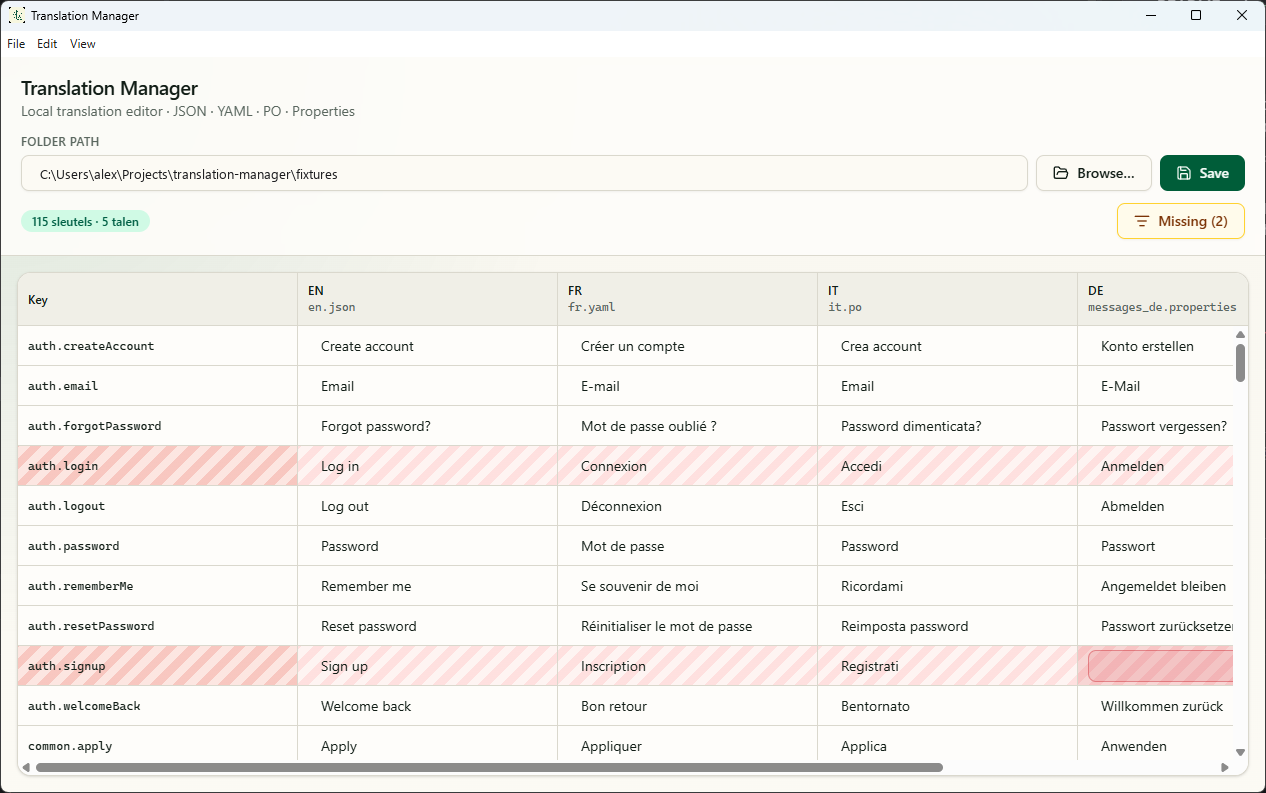
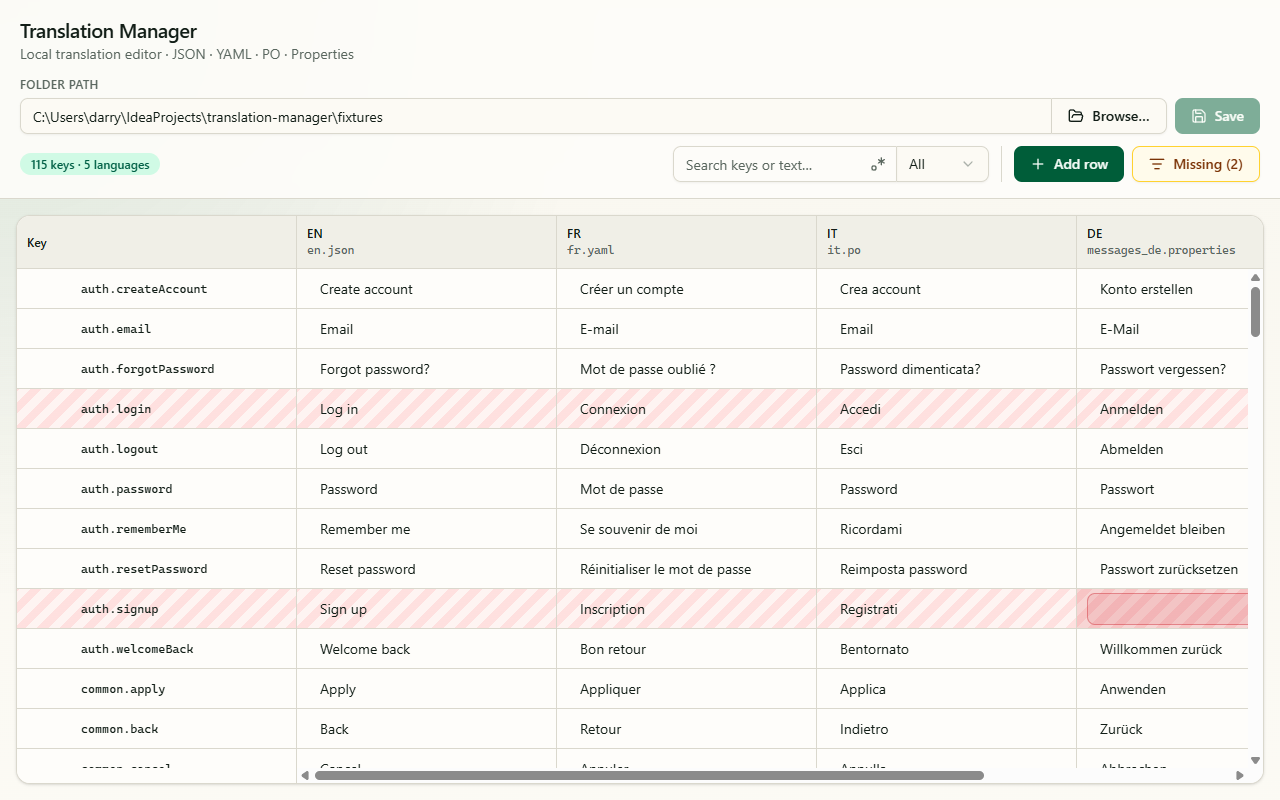
Add automated screenshot capture for dark and light modes, integrate into release workflow, and update related documentation

diff --git a/electron/screenshot.ts b/electron/screenshot.ts
@@ -1,0 +1,97 @@
+import { app, type BrowserWindow } from 'electron'
+import fs from 'node:fs/promises'
+import path from 'node:path'
+import type { UiTheme } from '../shared/theme'
+
+const DIRECTORY_KEY = 'translation-manager:directory-path'
+const THEME_KEY = 'translation-manager:ui-theme'
+const LOCALE_KEY = 'translation-manager:ui-locale'
+
+export function isScreenshotMode(): boolean {
+  return process.env.TM_SCREENSHOT === '1'
+}
+
+function sleep(ms: number): Promise<void> {
+  return new Promise((resolve) => {
+    setTimeout(resolve, ms)
+  })
+}
+
+async function waitForProjectRows(win: BrowserWindow, minRows = 5): Promise<void> {
+  const deadline = Date.now() + 30_000
+  while (Date.now() < deadline) {
+    const count = await win.webContents.executeJavaScript(
+      `document.querySelectorAll('[data-row-key]').length`,
+    )
+    if (typeof count === 'number' && count >= minRows) {
+      return
+    }
+    await sleep(150)
+  }
+  throw new Error(`Timed out waiting for at least ${minRows} translation rows`)
+}
+
+async function prepareSession(
+  win: BrowserWindow,
+  fixturesPath: string,
+  theme: 'dark' | 'light',
+): Promise<void> {
+  const fixtures = JSON.stringify(fixturesPath)
+  const themeJson = JSON.stringify(theme)
+  await win.webContents.executeJavaScript(`
+    localStorage.setItem(${JSON.stringify(DIRECTORY_KEY)}, ${fixtures});
+    localStorage.setItem(${JSON.stringify(THEME_KEY)}, ${themeJson});
+    localStorage.setItem(${JSON.stringify(LOCALE_KEY)}, 'en');
+  `)
+  await win.reload()
+  await win.webContents.executeJavaScript(
+    `new Promise((resolve) => {
+      if (document.readyState === 'complete') resolve(undefined)
+      else window.addEventListener('load', () => resolve(undefined), { once: true })
+    })`,
+  )
+  await waitForProjectRows(win)
+  // Let layout/virtualization settle before capture.
+  await sleep(600)
+}
+
+async function captureToFile(win: BrowserWindow, filePath: string): Promise<void> {
+  await fs.mkdir(path.dirname(filePath), { recursive: true })
+  const image = await win.capturePage()
+  await fs.writeFile(filePath, image.toPNG())
+  console.log(`Wrote ${filePath}`)
+}
+
+/**
+ * Load fixtures, capture dark + light README screenshots, then quit.
+ * Driven by TM_SCREENSHOT=1, TM_SCREENSHOT_FIXTURES, TM_SCREENSHOT_OUT.
+ */
+export async function runScreenshotCapture(
+  win: BrowserWindow,
+  setTheme: (theme: UiTheme, broadcast?: boolean) => void,
+): Promise<void> {
+  const fixturesPath = path.resolve(
+    process.env.TM_SCREENSHOT_FIXTURES ?? path.join(process.env.APP_ROOT ?? '.', 'fixtures'),
+  )
+  const outDir = path.resolve(
+    process.env.TM_SCREENSHOT_OUT ?? path.join(process.env.APP_ROOT ?? '.', 'docs'),
+  )
+
+  win.setContentSize(1280, 800)
+  win.show()
+
+  try {
+    setTheme('dark', true)
+    await prepareSession(win, fixturesPath, 'dark')
+    await captureToFile(win, path.join(outDir, 'main-window-dark.png'))
+
+    setTheme('light', true)
+    await prepareSession(win, fixturesPath, 'light')
+    await captureToFile(win, path.join(outDir, 'main-window-light.png'))
+
+    app.exit(0)
+  } catch (error) {
+    console.error('Screenshot capture failed', error)
+    app.exit(1)
+  }
+}

diff --git a/electron/main.ts b/electron/main.ts
@@ -28,6 +28,13 @@ import {
   type WriteFileRequest,
   type WriteFilesResult,
 } from '../shared/types'
+import { isScreenshotMode, runScreenshotCapture } from './screenshot'
+
+if (isScreenshotMode()) {
+  // Required in Docker/CI (no user namespace privileges for Chromium sandbox).
+  app.commandLine.appendSwitch('no-sandbox')
+  app.commandLine.appendSwitch('disable-dev-shm-usage')
+}
 
 const __dirname = path.dirname(fileURLToPath(import.meta.url))
 
@@ -68,6 +75,10 @@ function createWindow(): void {
   }
 
   mainWindow.once('ready-to-show', () => {
+    if (isScreenshotMode()) {
+      void runScreenshotCapture(mainWindow!, setUiTheme)
+      return
+    }
     mainWindow?.show()
   })
 

diff --git a/README.md b/README.md
@@ -6,7 +6,7 @@ Built with **Electron**, **React**, **TypeScript**, **Vite**, **Tailwind CSS**, 
 
 | Dark | Light |
 |:----:|:-----:|
-| ![Translation Manager in dark mode](docs/main-window.png) | ![Translation Manager in light mode](docs/main-window-light.png) |
+| ![Translation Manager in dark mode](docs/main-window-dark.png) | ![Translation Manager in light mode](docs/main-window-light.png) |
 
 ## Features
 
@@ -75,22 +75,28 @@ Optional: replace `build/icon.png` and run `npm run icons` to refresh `icon.ico`
 
 ### GitHub Releases
 
-Pushing a version tag builds installers on Windows, macOS, and Linux and uploads them to a GitHub Release.
+Pushing a version tag builds installers on Windows, macOS, and Linux and uploads them to a GitHub Release. After the release succeeds, CI captures fresh README screenshots and bumps `package.json` to the **next minor** on `master` (e.g. release `v0.3.0` → commit `0.4.0`).
 
 ```bash
-# 1. Bump version in package.json (must match the tag without the "v")
-# 2. Commit, then tag and push:
-git tag v0.1.0
-git push origin v0.1.0
+# package.json should already be the version you want to release (e.g. 0.3.0)
+git tag v0.3.0
+git push origin v0.3.0
 ```
 
-The workflow in `.github/workflows/release.yml` runs automatically on `v*` tags and publishes:
+The workflow in `.github/workflows/release.yml` runs automatically on `v*` tags and:
 
-- Windows: Setup + Portable `.exe`
-- macOS: `.dmg` (x64 + arm64, unsigned in CI)
-- Linux: `.AppImage`
+1. Publishes Windows / macOS / Linux installers for that tag
+2. Captures `docs/main-window-dark.png` + `docs/main-window-light.png` from the released build
+3. Bumps the next minor on `master` and commits the screenshots + version files
 
 You can also trigger it manually via **Actions → Release → Run workflow**.
+
+Local screenshot refresh (after `npm run build`):
+
+```bash
+npm run screenshots          # Windows / macOS
+xvfb-run -a npm run screenshots   # Linux / CI
+```
 
 Ensure `package.json` → `repository.url` points at your GitHub repo (`praetore/translation-manager`).
 